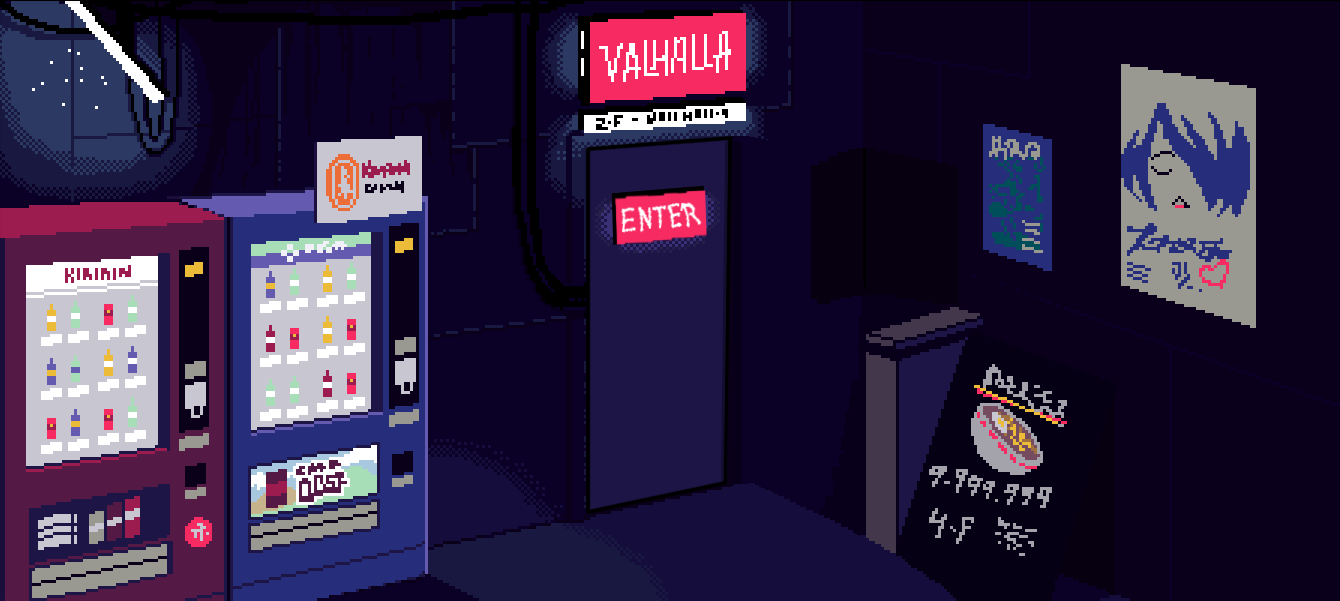
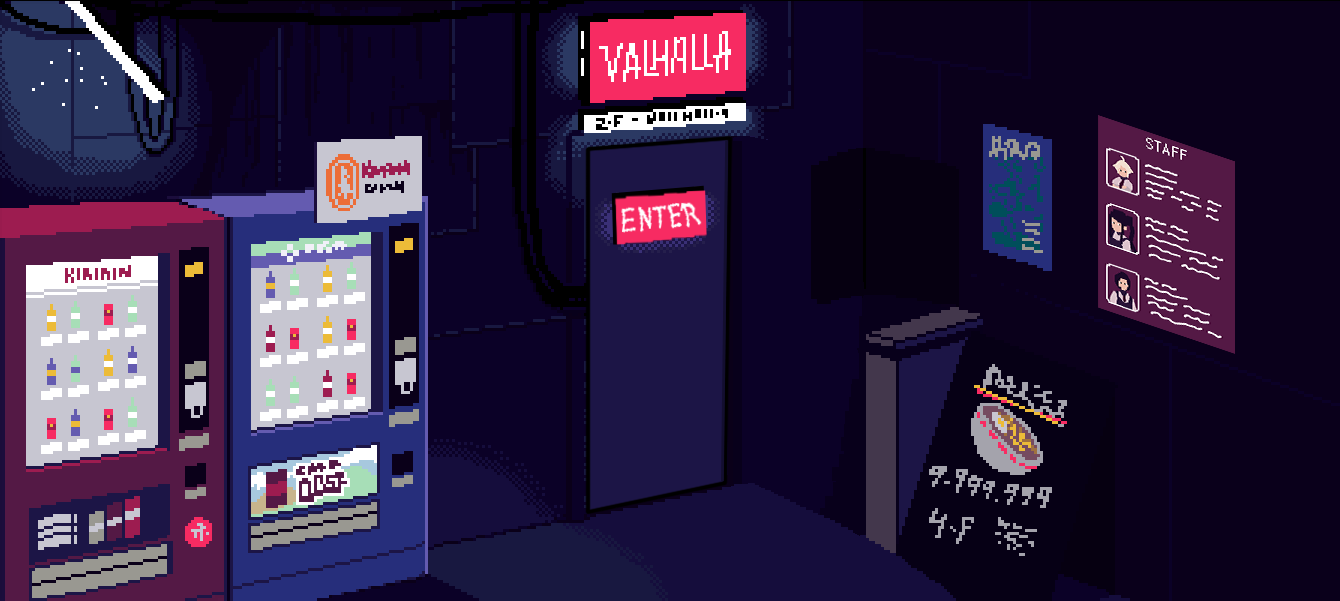
create a poster with the staff

Changed region(s): [[0.7955, 0.0899, 0.9485, 0.599]]

diff --git a/src/js/homepageView.js b/src/js/homepageView.js
@@ -3,6 +3,11 @@ import View from './View';
 import { MENU_TRANSITION_SEC } from './config';
 
 class homepageView extends View {
+  constructor() {
+    super();
+    this._addHandlerToggleStaff();
+  }
+
   addHandlerRenderMenu(handler) {
     this._parentElement.addEventListener('click', function (e) {
       const entrance = e.target.closest('.bar-img--entrance');
@@ -21,6 +26,17 @@ class homepageView extends View {
       setTimeout(() => {
         document.querySelector('.exit').disabled = false;
       }, (MENU_TRANSITION_SEC + 0.5) * 2000);
+    });
+  }
+
+  _addHandlerToggleStaff() {
+    this._parentElement.addEventListener('click', function (e) {
+      const posterMin = e.target.closest('.bar-img--poster');
+      const posterMax = e.target.closest('.staff');
+
+      if (posterMin) document.querySelector('.staff').classList.add('opened');
+      if (!posterMax && !posterMin)
+        document.querySelector('.staff').classList.remove('opened');
     });
   }
 
@@ -50,8 +66,34 @@ class homepageView extends View {
           class="bar-img--entrance"
           points="443,383 442,113 547,105 544,361"
         />
+        <polygon class="bar-img--poster" points="823.25 231.25 926.38 266.13 926.38 120.13 823.25 85.44 823.25 231.25"/>
       </svg>
+      <div class="staff">
+        <p class="staff__title">Staff</p>
+          <ul class="staff__list">${this._generateMarkupStaff()}</ul>
+      </div>
     `;
+  }
+
+  _generateMarkupStaff() {
+    return this._data
+      .map(member => {
+        return `
+        <li class="staff__member">
+          <img
+            class="staff__member-img"
+            src="${member.image}"
+            alt="${member.name}"
+          />
+          <div class="staff__member-info">
+            <p class="staff__member-name">Name: ${member.name}</p>
+            <p class="staff__member-position">Position: ${member.position}</p>
+            <p class="staff__member-desc">${member.description}</p>
+          </div>
+        </li>
+      `;
+      })
+      .join('');
   }
 }
 

diff --git a/src/sass/_homepage.scss b/src/sass/_homepage.scss
@@ -1,3 +1,9 @@
+.homepage {
+  @media only screen and (max-width: $bp-smallest) {
+    font-size: 0.8rem;
+  }
+}
+
 .homepage__description {
   position: absolute;
   z-index: 1;
@@ -20,7 +26,8 @@
   max-width: 134rem;
   max-height: 60vh;
 
-  &--entrance {
+  &--entrance,
+  &--poster {
     opacity: 0;
 
     cursor: pointer;
@@ -29,5 +36,55 @@
   @media only screen and (max-width: $bp-medium) {
     bottom: 50%;
     transform: translate(-50%, 50%);
+  }
+}
+
+.staff {
+  position: absolute;
+  z-index: 1;
+  left: 50%;
+  top: 50%;
+
+  transform: translate(-50%, -50%) scaleY(0);
+  transition: transform 1s;
+  &.opened {
+    transform: translate(-50%, -50%) scaleY(1);
+  }
+
+  width: 50em;
+  background-color: #541945;
+
+  &__title {
+    font-size: 6.2em;
+    text-transform: uppercase;
+    text-align: center;
+    padding-top: 1rem;
+  }
+
+  &__list {
+    list-style: none;
+  }
+
+  &__member {
+    display: flex;
+    gap: 2em;
+    align-items: center;
+
+    padding: 3em;
+
+    &-img {
+      width: 12em;
+      padding-top: 1em;
+      border: 1px solid white;
+      border-radius: 2em;
+    }
+
+    &-info {
+      font-size: 1.6em;
+    }
+
+    &-info p:not(:last-child) {
+      margin-bottom: 1em;
+    }
   }
 }

diff --git a/src/js/model.js b/src/js/model.js
@@ -484,21 +484,21 @@ export const state = {
       position: 'Boss',
       description:
         'A former wrestler and current owner of the bar VA11-HALL-A. Dana, or Boss, has a prosthetic left arm and its origin is shrouded in rumours.',
-      image: '',
+      image: _staffImgs.danaZane,
     },
     {
       name: 'Jill Stingray',
       position: 'Bartender',
       description:
         "Half-French. Avid smoker. Bisexual. Went to college. Drinks a lot of beer because of her implant that allows her to drink lots of beer and not get drunk. Has a cat named Fore, whom she talks to every time she's at home.",
-      image: '',
+      image: _staffImgs.jillStingray,
     },
     {
       name: 'Gillian',
       position: 'Bartender',
       description:
         'Bartender at VA-11 Hall-A with a mysterious past. He is known for occasionally disappearing for a few days, but is otherwise a dependable employee at VA-11 Hall-A.',
-      image: '',
+      image: _staffImgs.gillian,
     },
   ],
 };

diff --git a/src/js/controller.js b/src/js/controller.js
@@ -8,7 +8,7 @@ function controlHomepage() {
   model.setCurrentCategory();
   model.setCurrentSubcategory();
 
-  homepageView.render();
+  homepageView.render(model.state.staff);
 }
 
 function controlMenu(category, subcategory) {
@@ -19,7 +19,8 @@ function controlMenu(category, subcategory) {
 }
 
 function init() {
-  homepageView.render();
+  controlHomepage();
+
   homepageView.addHandlerRenderMenu(controlMenu);
   menuView.addHandlerRenderSubcategoriesAndDrinks(controlMenu);
   menuView.addHandlerReturnToStreet(controlHomepage);

diff --git a/src/sass/_base.scss b/src/sass/_base.scss
@@ -3,9 +3,10 @@ $font-color: #fff;
 
 $base-font-size: 1.6rem;
 
-$bp-large: 87.5em;
-$bp-medium: 61.25em;
-$bp-small: 56.25em;
+$bp-large: 87.5em; // 1400px
+$bp-medium: 61.25em; // 980px
+$bp-small: 56.25em; // 900px
+$bp-smallest: 37.5em; // 600px
 
 @font-face {
   font-family: 'cyberpunkwaifus';
